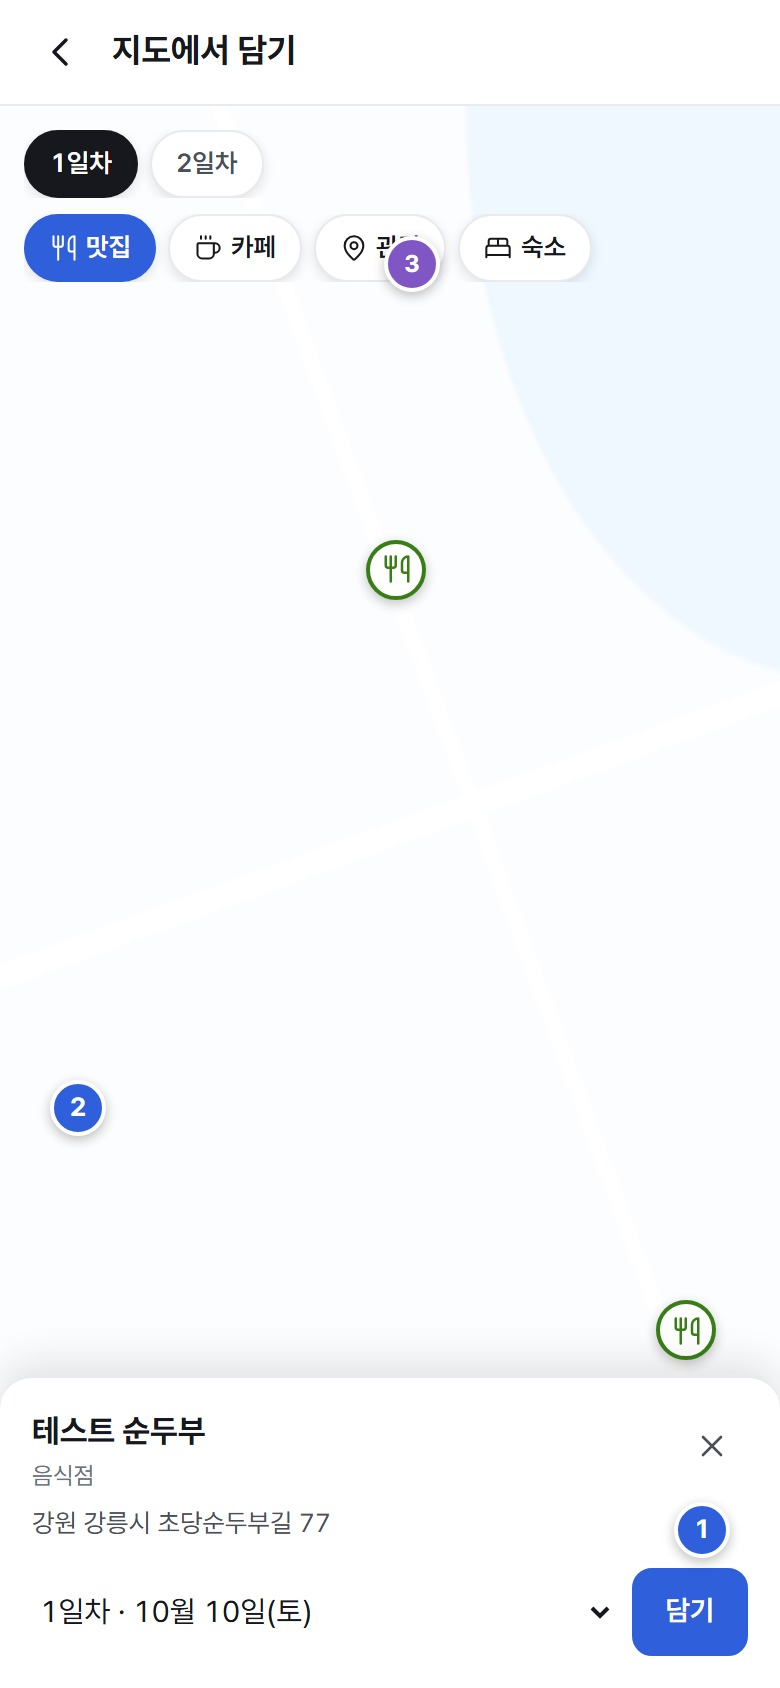
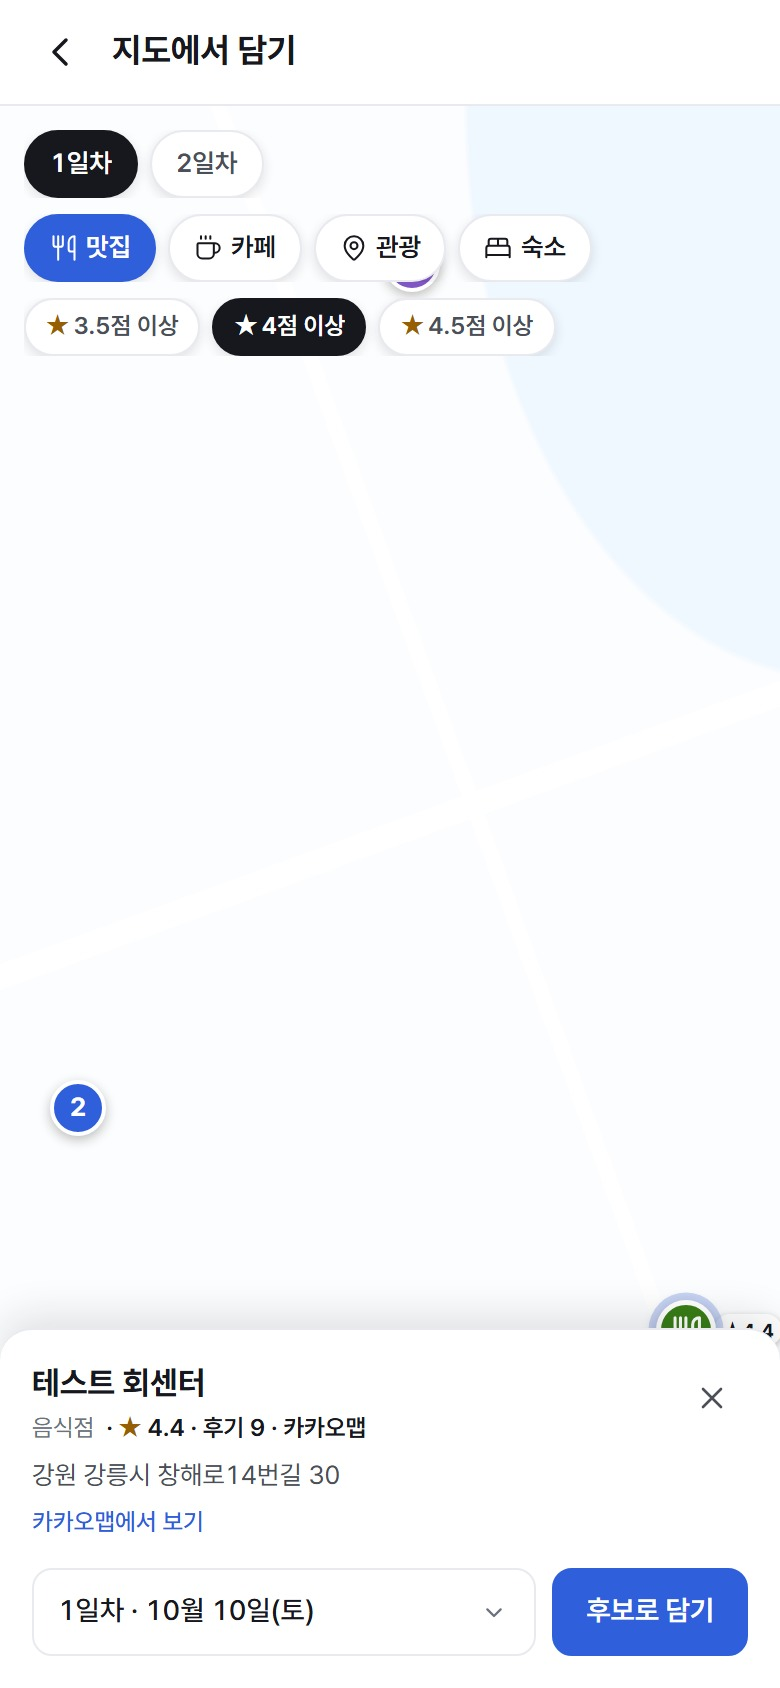
feat(app): 담은 후보는 지도에서 회색 눈 핀으로 보이고 후보여도 지도 앱 아이콘은 흐리게 하지 않는다
사용법 지도에서 담기 장에 평점 필터와 후보 담기를 반영한다.

diff --git a/app/src/app/features/places/data/place-pin.ts b/app/src/app/features/places/data/place-pin.ts
@@ -4,12 +4,13 @@ import { PLACE_PIN_CLASSES, PLACE_PIN_RATING_CLASSES, PLACE_PIN_ROOT_CLASSES } f
 /**
  * 핀 아이콘(lucide, shared/ui/icon과 같은 모양). 지도 DOM은 데이터 층이 직접 만들어 아이콘 부품을 쓸 수 없어 경로만 둔다.
  */
-const ICON: Readonly<Record<NearbyCategory | 'added', string>> = {
+const ICON: Readonly<Record<NearbyCategory | 'added' | 'candidate', string>> = {
   meal: 'M3 2v7c0 1.1.9 2 2 2h4a2 2 0 0 0 2-2V2M7 2v20M21 15V2a5 5 0 0 0-5 5v6c0 1.1.9 2 2 2h3Zm0 0v7',
   cafe: 'M10 2v2M14 2v2M16 8a1 1 0 0 1 1 1v8a4 4 0 0 1-4 4H7a4 4 0 0 1-4-4V9a1 1 0 0 1 1-1h14a4 4 0 1 1 0 8h-1M6 2v2',
   sight: 'M20 10c0 4.993-5.539 10.193-7.399 11.799a1 1 0 0 1-1.202 0C9.539 20.193 4 14.993 4 10a8 8 0 0 1 16 0M9 10a3 3 0 1 0 6 0a3 3 0 1 0 -6 0',
   stay: 'M2 20v-8a2 2 0 0 1 2-2h16a2 2 0 0 1 2 2v8M4 10V6a2 2 0 0 1 2-2h12a2 2 0 0 1 2 2v4M12 4v6M2 18h20',
   added: 'M20 6 9 17l-5-5',
+  candidate: 'M10.733 5.076a10.744 10.744 0 0 1 11.205 6.575 1 1 0 0 1 0 .696 10.747 10.747 0 0 1-1.444 2.49M14.084 14.158a3 3 0 0 1-4.242-4.242M17.479 17.499a10.75 10.75 0 0 1-15.417-5.151 1 1 0 0 1 0-.696 10.75 10.75 0 0 1 4.446-5.143M2 2l20 20',
 };
 const LABEL: Readonly<Record<NearbyCategory, string>> = { meal: '맛집', cafe: '카페', sight: '관광', stay: '숙소' };
 
@@ -26,17 +27,17 @@ export function placePinElement(
   root.className = PLACE_PIN_ROOT_CLASSES;
   const btn = document.createElement('button');
   btn.type = 'button';
-  btn.className = `${PLACE_PIN_CLASSES} tc-pin--${pin.category}${pin.added ? ' tc-pin--added' : ''}`;
+  btn.className = `${PLACE_PIN_CLASSES} tc-pin--${pin.category}${pin.added === 'scheduled' ? ' tc-pin--added' : ''}${pin.added === 'candidate' ? ' tc-pin--candidate' : ''}`;
   btn.dataset['placeId'] = pin.id;
   const rating = pin.rating !== null ? ` 평점 ${pin.rating}` : '';
-  btn.setAttribute('aria-label', `${LABEL[pin.category]} ${pin.title}${rating}${pin.added ? ' (담음)' : ''}`);
+  btn.setAttribute('aria-label', `${LABEL[pin.category]} ${pin.title}${rating}${pin.added === 'candidate' ? ' (후보로 담음)' : pin.added ? ' (담음)' : ''}`);
   btn.setAttribute('aria-pressed', String(selected));
   const ns = 'http://www.w3.org/2000/svg';
   const svg = document.createElementNS(ns, 'svg');
   for (const [k, v] of Object.entries({ width: '13', height: '13', viewBox: '0 0 24 24', fill: 'none', stroke: 'currentColor', 'stroke-width': '2.25', 'stroke-linecap': 'round', 'stroke-linejoin': 'round', 'aria-hidden': 'true' }))
     svg.setAttribute(k, v);
   const path = document.createElementNS(ns, 'path');
-  path.setAttribute('d', ICON[pin.added ? 'added' : pin.category]);
+  path.setAttribute('d', ICON[pin.added === 'candidate' ? 'candidate' : pin.added ? 'added' : pin.category]);
   svg.appendChild(path);
   btn.appendChild(svg);
   btn.addEventListener('click', (e) => {

diff --git a/app/src/app/features/places/util/map-marker-styles.ts b/app/src/app/features/places/util/map-marker-styles.ts
@@ -5,7 +5,7 @@ export const MAP_MARKER_CLASSES = String.raw`tc-marker inline-flex items-center 
  * 담은 곳은 흰 원에 분류 색 체크로 바뀐다. 평점을 읽었으면 옆에 작은 평점 표시를 붙인다.
  */
 export const PLACE_PIN_ROOT_CLASSES = String.raw`tc-pin-root inline-flex items-center gap-0.5 [margin-left:-12px] [.tc-fixture-map\_\_layer_&]:absolute [.tc-fixture-map\_\_layer_&]:[transform:translateY(-50%)] [&:has([aria-pressed='true'])]:[z-index:4]`;
-export const PLACE_PIN_CLASSES = String.raw`tc-pin inline-flex flex-none items-center justify-center size-6 rounded-full cursor-pointer p-0 text-white [border:2px_solid_#ffffff] [box-shadow:0_1px_4px_rgba(28,_25,_23,_0.3)] [transition:transform_var(--dur)_var(--ease-out)] [&.tc-pin--meal]:bg-meal-ink [&.tc-pin--cafe]:bg-cafe-ink [&.tc-pin--sight]:bg-place-ink [&.tc-pin--stay]:bg-stay-ink [&.tc-pin--added]:bg-panel [&.tc-pin--added.tc-pin--meal]:text-meal-ink [&.tc-pin--added.tc-pin--cafe]:text-cafe-ink [&.tc-pin--added.tc-pin--sight]:text-place-ink [&.tc-pin--added.tc-pin--stay]:text-stay-ink [&.tc-pin--added]:[border-color:currentColor] [&[aria-pressed='true']]:[transform:scale(1.25)] [&[aria-pressed='true']]:[box-shadow:0_0_0_3px_rgba(47,_95,_219,_0.25),_0_2px_6px_rgba(28,_25,_23,_0.3)]`;
+export const PLACE_PIN_CLASSES = String.raw`tc-pin inline-flex flex-none items-center justify-center size-6 rounded-full cursor-pointer p-0 text-white [border:2px_solid_#ffffff] [box-shadow:0_1px_4px_rgba(28,_25,_23,_0.3)] [transition:transform_var(--dur)_var(--ease-out)] [&.tc-pin--meal]:bg-meal-ink [&.tc-pin--cafe]:bg-cafe-ink [&.tc-pin--sight]:bg-place-ink [&.tc-pin--stay]:bg-stay-ink [&.tc-pin--added]:bg-panel [&.tc-pin--added.tc-pin--meal]:text-meal-ink [&.tc-pin--added.tc-pin--cafe]:text-cafe-ink [&.tc-pin--added.tc-pin--sight]:text-place-ink [&.tc-pin--added.tc-pin--stay]:text-stay-ink [&.tc-pin--added]:[border-color:currentColor] [&.tc-pin--candidate]:bg-ground-2 [&.tc-pin--candidate]:text-ink-3 [&[aria-pressed='true']]:[transform:scale(1.25)] [&[aria-pressed='true']]:[box-shadow:0_0_0_3px_rgba(47,_95,_219,_0.25),_0_2px_6px_rgba(28,_25,_23,_0.3)]`;
 export const PLACE_PIN_RATING_CLASSES = String.raw`tc-pin-rating rounded-pill bg-panel px-1 py-px font-body text-[10px] font-bold leading-[1.4] text-ink [box-shadow:0_1px_3px_rgba(28,_25,_23,_0.25)] whitespace-nowrap`;
 export const FIXTURE_MAP_CLASSES = String.raw`tc-fixture-map relative [background:linear-gradient(var(--color-border)_1px,_transparent_1px)_0_0_/_40px_40px,_linear-gradient(90deg,_var(--color-border)_1px,_transparent_1px)_0_0_/_40px_40px,_var(--color-ground-2)]`;
 export const FIXTURE_LAYER_CLASSES = String.raw`tc-fixture-map__layer absolute [inset:0]`;

diff --git a/app/src/app/features/trips/feature/trip-detail/trip-detail.html b/app/src/app/features/trips/feature/trip-detail/trip-detail.html
@@ -499,9 +499,13 @@
                           }
                         </button>
                         <div
-                          class="item__main relative pr-16 in-[.item--excluded]:opacity-[0.5] flex flex-col gap-1 min-w-0"
+                          class="item__main relative pr-16 in-[.item--excluded]:[&>*:not([data-title])]:opacity-[0.5] flex flex-col gap-1 min-w-0"
                         >
-                          <div class="item__title flex items-center gap-1.5 text-15">
+                          <!-- 제외(후보)여도 지도 앱 아이콘은 흐리게 하지 않는다(2026-10-01 사용자 요청). -->
+                          <div
+                            class="item__title flex items-center gap-1.5 text-15 in-[.item--excluded]:[&>*:not([data-maps])]:opacity-[0.5]"
+                            data-title
+                          >
                             <strong
                               class="item__name in-[.notice]:font-bold min-w-0 truncate"
                               [title]="seg.stop.name"
@@ -526,7 +530,7 @@
                               끝까지 써서 오른쪽 끝이 어긋났다. 흐름에서 빼 오른쪽 위에 두고,
                               본문 묶음 전체에 같은 오른쪽 여백(pr-16)을 준다.
                             -->
-                            <span class="item__maps absolute right-0 -top-0.5 inline-flex gap-1">
+                            <span class="item__maps absolute right-0 -top-0.5 inline-flex gap-1" data-maps>
                               <app-map-links
                                 [name]="seg.stop.name"
                                 [naverHref]="naverUrl(seg.stop)"

diff --git a/app/src/app/features/trips/util/map-explore.ts b/app/src/app/features/trips/util/map-explore.ts
@@ -30,12 +30,18 @@ function meters(a: { lat: number; lng: number }, b: { lat: number; lng: number }
 
 /** 이 여행에 이미 담은 곳인지. 같은 출처 번호거나, 같은 이름이 아주 가까우면 같은 곳이다. */
 export function isInTrip(trip: Trip, place: NearbyPlace): boolean {
-  const items = [...trip.stops, ...trip.stays];
-  return items.some(
-    (item) =>
-      (item.placeRef?.provider === place.provider && item.placeRef.id === place.id) ||
-      (!!item.location && item.name.trim() === place.name.trim() && meters(item.location, place) <= SAME_METERS),
-  );
+  return addedState(trip, place) !== false;
+}
+
+/** 담은 상태. 일정 맨 아래 후보(제외)면 candidate, 일정에 들었거나 숙소면 scheduled. */
+export function addedState(trip: Trip, place: NearbyPlace): false | 'candidate' | 'scheduled' {
+  const same = (item: { name: string; location?: { lat: number; lng: number } | null; placeRef?: { provider: string; id: string } | null }) =>
+    (item.placeRef?.provider === place.provider && item.placeRef.id === place.id) ||
+    (!!item.location && item.name.trim() === place.name.trim() && meters(item.location, place) <= SAME_METERS);
+  if (trip.stays.some(same)) return 'scheduled';
+  const stops = trip.stops.filter(same);
+  if (!stops.length) return false;
+  return stops.every((s) => s.excluded) ? 'candidate' : 'scheduled';
 }
 
 export function toPins(
@@ -48,7 +54,7 @@ export function toPins(
     category: p.nearby,
     position: { lat: p.lat, lng: p.lng },
     title: p.name,
-    added: isInTrip(trip, p),
+    added: addedState(trip, p),
     rating: ratingOf(p.id),
   }));
 }

diff --git a/app/e2e/guide.capture.ts b/app/e2e/guide.capture.ts
@@ -176,13 +176,16 @@ test('사용법 캡처', async ({ page, context }) => {
     ].join(',');
   });
   await page.getByTestId('map-category-meal').click();
+  await page.getByTestId('map-rating-4').click();
   const pin = page.locator('[data-testid^=map-place-]').first();
   await pin.click();
   await expect(page.getByTestId('map-explore-sheet')).toBeVisible();
+  await expect(page.getByTestId('map-explore-rating')).toBeVisible();
   await mark('map-explore', 0, page.getByTestId('map-category-meal').locator('xpath=..'));
-  await mark('map-explore', 1, pin);
-  await mark('map-explore', 2, page.getByTestId('map-explore-day'));
-  await mark('map-explore', 3, page.getByTestId('map-explore-add'));
+  await mark('map-explore', 1, page.getByTestId('map-rating-4').locator('xpath=..'));
+  await mark('map-explore', 2, pin.locator('xpath=..'));
+  await mark('map-explore', 3, page.getByTestId('map-explore-day'));
+  await mark('map-explore', 4, page.getByTestId('map-explore-add'));
   await shot(page, 'map-explore');
 
   // 지도 링크로 담기(장소 추가 화면). 찾기는 누르지 않고 링크를 붙여 넣은 상태로 찍는다.

diff --git a/app/src/app/features/guide/model/guide.ts b/app/src/app/features/guide/model/guide.ts
@@ -51,8 +51,8 @@ export const GUIDE_SLIDES: readonly GuideSlide[] = [
     key: 'map-explore',
     alt: '큰 지도 화면. 위에 날짜와 맛집·카페·관광·숙소 버튼, 지도 위 주변 장소 핀, 아래에 고른 장소와 담기 버튼',
     title: '지도에서 담기',
-    description: '여행 상세 지도의 크게 보고 담기를 누르면 주변 맛집·카페·관광지를 지도에서 보고 바로 담을 수 있어요.',
-    spots: ['맛집·카페·관광·숙소를 지도에 띄워요', '핀을 누르면 장소 정보가 떠요', '담을 날을 골라요', '누르면 그날 일정에 담겨요'],
+    description: '여행 상세 지도의 크게 보고 담기를 누르면 주변 맛집·카페·관광지를 평점과 함께 보고, 그날 일정 맨 아래 후보로 담아요.',
+    spots: ['맛집·카페·관광·숙소를 지도에 띄워요', '평점 몇 점 이상만 볼 수 있어요', '핀을 누르면 평점과 장소 정보가 떠요', '담을 날을 골라요', '그날 맨 아래 후보로 담겨요'],
   },
   {
     key: 'place-link',

diff --git a/app/src/app/features/trips/util/map-explore.spec.ts b/app/src/app/features/trips/util/map-explore.spec.ts
@@ -44,6 +44,9 @@ describe('큰 지도에서 담기', () => {
     const manual = { ...trip(), stops: [{ ...createStop({ name: '테스트 순두부' }), location: { lat: 37.79051, lng: 128.91351 } }] };
     expect(isInTrip(manual, place({ id: 'other' }))).toBe(true);
     expect(isInTrip(manual, place({ id: 'other', lat: 37.8 }))).toBe(false);
-    expect(toPins(added, [place(), place({ id: 'k2', name: '다른 집', lat: 37.7, lng: 128.9 })]).map((p) => p.added)).toEqual([true, false]);
+    expect(toPins(added, [place(), place({ id: 'k2', name: '다른 집', lat: 37.7, lng: 128.9 })]).map((p) => p.added)).toEqual(['candidate', false]);
+    // 일정에 되돌리면(제외 해제) 회색 눈 대신 담음(체크)이다.
+    const active = { ...added, stops: added.stops.map((st) => ({ ...st, excluded: false })) };
+    expect(toPins(active, [place()])[0]!.added).toBe('scheduled');
   });
 });

diff --git a/app/src/app/features/guide/model/guide-marks.ts b/app/src/app/features/guide/model/guide-marks.ts
@@ -176,25 +176,33 @@ export const GUIDE_MARKS: Readonly<Record<string, readonly GuideMark[]>> = {
     },
     {
       "spot": 1,
-      "x": 46.99,
-      "y": 31.97,
-      "w": 7.69,
-      "h": 3.55,
-      "r": 15
+      "x": 3.08,
+      "y": 17.69,
+      "w": 93.85,
+      "h": 3.39,
+      "r": 0
     },
     {
       "spot": 2,
-      "x": 4.1,
-      "y": 92.89,
-      "w": 74.82,
-      "h": 5.21,
+      "x": 84.96,
+      "y": 77.38,
+      "w": 15.04,
+      "h": 2.84,
       "r": 0
     },
     {
       "spot": 3,
-      "x": 80.97,
+      "x": 4.1,
       "y": 92.89,
-      "w": 14.92,
+      "w": 64.66,
+      "h": 5.21,
+      "r": 10
+    },
+    {
+      "spot": 4,
+      "x": 70.81,
+      "y": 92.89,
+      "w": 25.08,
       "h": 5.21,
       "r": 10
     }

diff --git a/app/src/app/features/places/model/map.ts b/app/src/app/features/places/model/map.ts
@@ -24,8 +24,8 @@ export interface PlacePin {
   category: NearbyCategory;
   position: GeoPoint;
   title: string;
-  /** 이미 이 여행에 담은 곳이면 true(표시만 다르다) */
-  added: boolean;
+  /** 이 여행에 담았는지. candidate는 일정 맨 아래 후보(제외)라 여행 상세처럼 회색 눈으로 보인다 */
+  added: false | 'candidate' | 'scheduled';
   /** 읽어 둔 방문자 평점. 아직 모르거나 후기가 없으면 null */
   rating: number | null;
 }

diff --git a/docs/기획안-v0.1.md b/docs/기획안-v0.1.md
@@ -793,6 +793,6 @@ map2에서 여행·맛집·카페·문화·예술 카테고리 탭과 유형 안
 
 ## 42. 큰 지도에서 주변 장소 골라 담기 (2026-10-01)
 
-모바일에서 지도를 크게 보며 주변 장소를 골라 일정에 담는다(사용자 요청). 여행 상세 지도의 `크게 보고 담기`로 연다. 위에 날짜와 `맛집·카페·관광·숙소` 버튼을 두고, 누르면 지금 보이는 범위의 카카오 장소를 핀으로 보인다. 지도를 옮기면 `이 지역에서 다시 찾기`가 뜨며 자동으로 찾지 않는다(무료 한도). 핀을 누르면 이름·분류·주소와 담을 날을 고르는 정보판이 뜨고 `담기`로 그날 일정 끝에 더한다. 위치·주소·분류는 카카오 값이라 위치 확인됨이다. 숙소는 체크인·체크아웃을 정해야 해 장소를 채운 숙소 추가 화면으로 넘긴다. 카카오 지도 SDK가 지도에 찍힌 기본 장소 누르기를 지원하지 않아 앱이 그린 핀만 누를 수 있다.
+모바일에서 지도를 크게 보며 주변 장소를 골라 일정에 담는다(사용자 요청). 여행 상세 지도의 `크게 보고 담기`로 연다. 위에 날짜와 `맛집·카페·관광·숙소` 버튼을 두고, 누르면 지금 보이는 범위의 카카오 장소를 핀으로 보인다. 지도를 옮기면 `이 지역에서 다시 찾기`가 뜨며 자동으로 찾지 않는다(무료 한도). 핀을 누르면 이름·분류·주소·카카오맵 평점과 담을 날을 고르는 정보판이 뜨고 `후보로 담기`로 그날 일정 맨 아래 후보(일정에서 제외 상태)로 더한다(사용자 결정). 담은 후보는 지도에서 회색 눈 핀으로 보인다. `3.5·4·4.5점 이상` 평점 필터를 켜면 그때만 보이는 핀들의 평점을 읽어 기준 미만·후기 없는 곳을 숨긴다. 위치·주소·분류는 카카오 값이라 위치 확인됨이다. 숙소는 체크인·체크아웃을 정해야 해 장소를 채운 숙소 추가 화면으로 넘긴다. 카카오 지도 SDK가 지도에 찍힌 기본 장소 누르기를 지원하지 않아 앱이 그린 핀만 누를 수 있다.
 
 설계: `docs/superpowers/specs/2026-10-01-map-explore-design.md`, OpenSpec `add-map-explore`.

diff --git a/docs/superpowers/specs/2026-10-01-map-explore-design.md b/docs/superpowers/specs/2026-10-01-map-explore-design.md
@@ -16,7 +16,11 @@
 6. `담기`는 그날 일정 끝에 더한다. 종류는 분류로 정한다(맛집→식사, 카페→카페, 관광→관광). 좌표·주소·출처는 카카오 값 그대로라 '위치 확인됨'이다. 담으면 핀이 체크로 바뀌고 `담았어요`가 된다. 지도는 옮기지 않는다(보던 자리 유지).
 7. 숙소 핀은 체크인·체크아웃을 정해야 해 `숙소로 담기 · 날짜 정하기`로 숙소 추가 화면에 장소를 채워 넘긴다(`history.state.place`).
 
-이미 담은 곳: 같은 출처 번호, 또는 같은 이름이 40m 안이면 체크 핀으로 보인다.
+이미 담은 곳: 같은 출처 번호, 또는 같은 이름이 40m 안이면 담은 곳이다. 후보(제외)로만 들어 있으면 여행 상세처럼 회색 눈 핀, 일정에 들었으면 체크 핀이다.
+
+담기는 그날 일정 맨 아래 후보(`excluded: true`)로 넣는다(2026-10-01 사용자 결정). 지도에서 여러 곳을 골라 두고 비교한 뒤 여행 상세의 '일정에 되돌리기'로 넣는다. 후보는 흐리게 보이지만 네이버·카카오 지도 아이콘은 흐리게 하지 않는다.
+
+평점 필터 `3.5·4·4.5점 이상`: 켤 때만 보이는 핀(최대 30곳)의 평점을 `resolve-place`가 묶어 읽는다(동시 5개). 기준 미만·후기 없는 곳은 숨기고, 핀 옆에 작게 평점을 붙인다. 같은 기준을 다시 누르면 끈다. 핀은 분류 색으로 채운 24px 원이다.
 
 평점(2026-10-01 사용자 요청): 핀을 누를 때 그 장소 하나만 `resolve-place`로 카카오 장소 정보를 읽어 `★ 4.4 · 후기 9 · 카카오맵`으로 보인다. 검색 결과 전체를 읽으면 한 번에 수십 번 부르게 되어 고른 곳만 읽는다. 평점은 화면에만 보이고 저장하지 않는다. 후기가 없거나 읽지 못하면 보이지 않는다. 지도 링크로 담기도 같은 함수라 네이버 방문자 평점(`visitorReviewsScore`)을 함께 읽는다.
 
